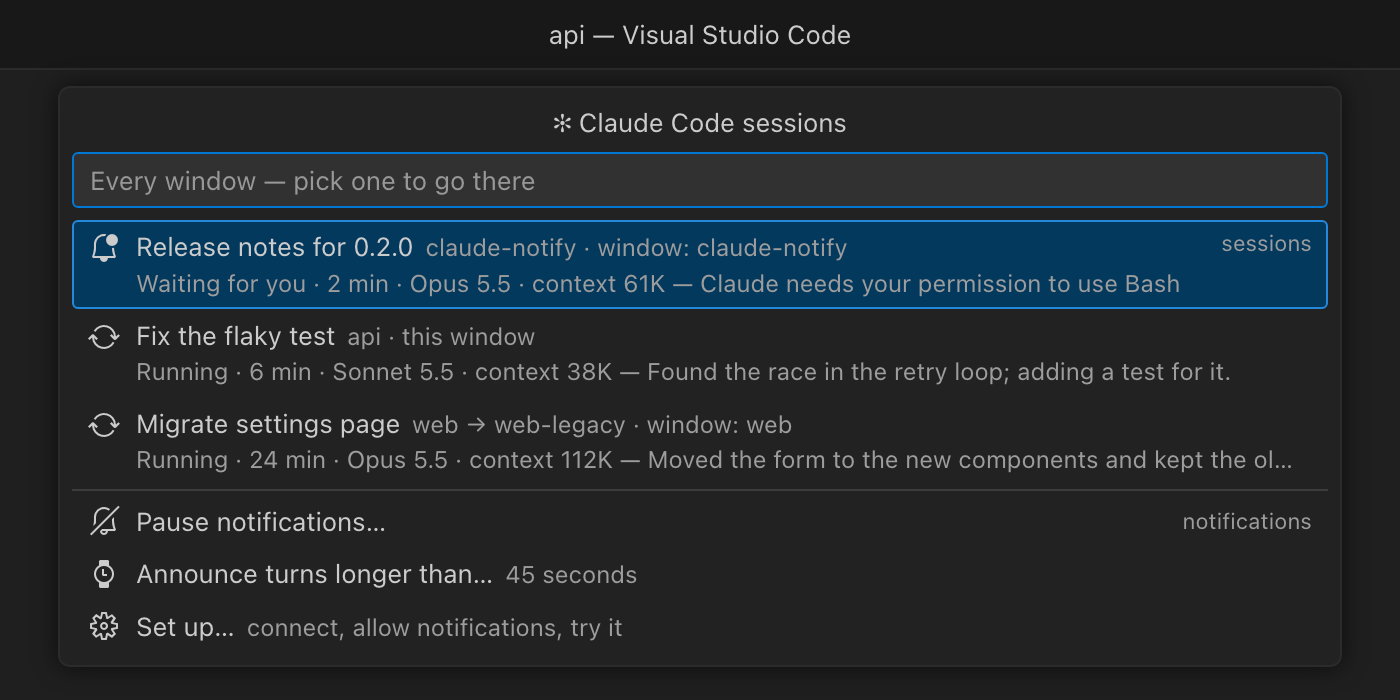
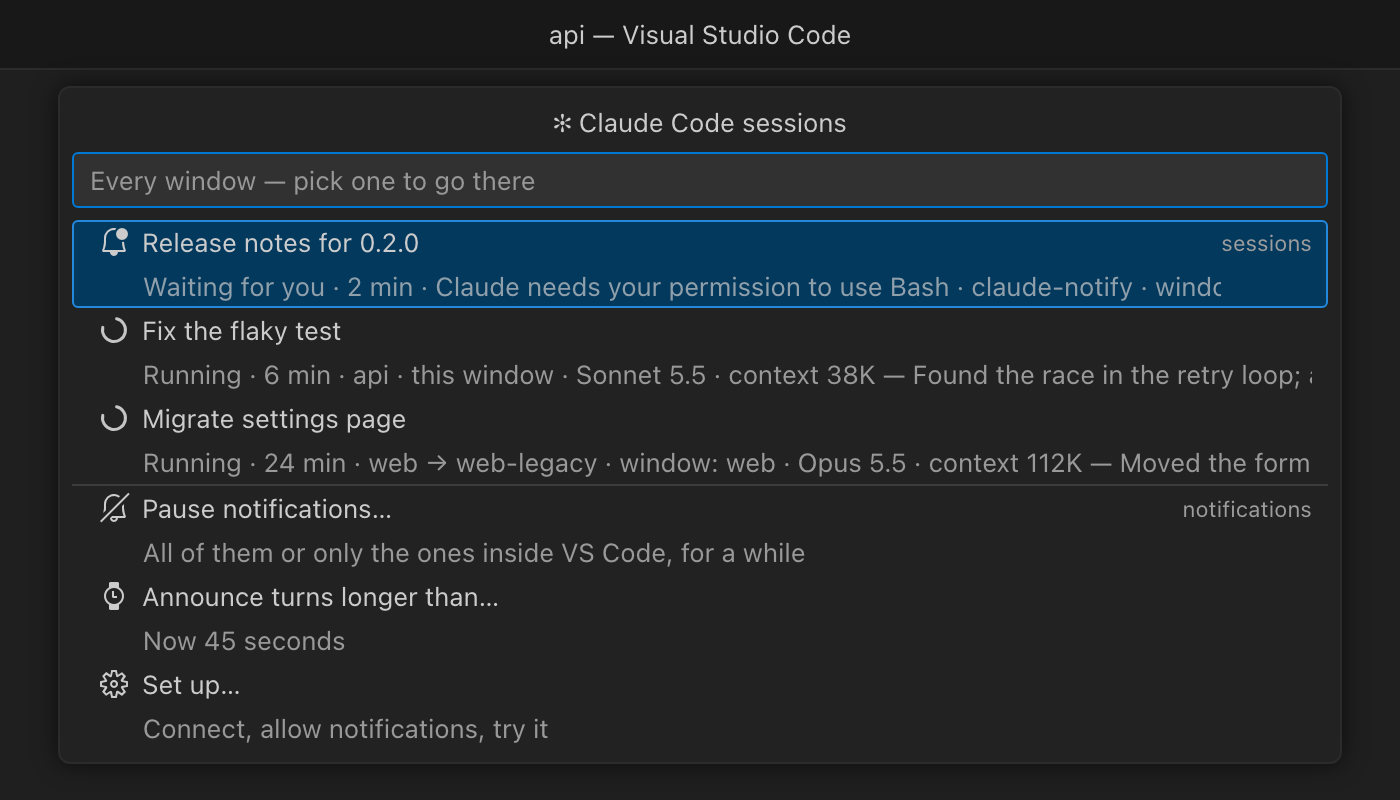
0.2.6: a spinner that turns about its centre; two even lines per row (#10)
- VS Code turns a spinning codicon together with the 6px after it, so the icon
  of a running session wobbled off-centre and into its name. A running session
  now gets an animated SVG (light and dark) that turns about its own centre.
- VS Code puts an item's icon in its first line only and starts the second at
  the edge. The second line now starts with a blank icon and an en space, under
  the name.
- Every row, the controls too, has two lines: the name beside its icon, then in
  muted text the state first and the rest after it. What a waiting session asks
  comes right after the state, where a long line does not cut it off.

Changed region(s): [[0.0307, 0.12, 0.9521, 0.93], [0.3686, 0.03, 0.6143, 0.06], [0.86, 0.72, 0.9214, 0.75]]

diff --git a/extension/media/readme/src/sessions.html b/extension/media/readme/src/sessions.html
@@ -5,40 +5,45 @@ body { width: 700px; padding: 0 0 18px; background: #1f1f1f; }
 .qp { width: 640px; margin: 8px auto 0; background: #222222; border: 1px solid #2b2b2b; border-radius: 6px; box-shadow: 0 0 12px rgba(0,0,0,.6); padding: 6px 0 6px; }
 .title { text-align: center; color: #cccccc; padding: 2px 0 6px; font-size: 13px; }
 .input { margin: 0 6px 6px; height: 26px; border: 1px solid #0078d4; border-radius: 3px; background: #313131; color: #989898; display: flex; align-items: center; padding: 0 8px; }
-/* an item: the icon in a column of its own, then the label row and the detail row under it */
-.item { margin: 0 6px; padding: 4px 8px; border-radius: 3px; display: grid; grid-template-columns: 16px 1fr auto; column-gap: 8px; align-items: center; }
-.item.two { align-items: start; }
-.item.two .codicon { margin-top: 2px; }
+/* VS Code's own structure: the icon sits in the first row only (16px, 6px after it); the
+   second row starts at the edge, so the extension starts it with a blank icon and an en space */
+.item { margin: 0 6px; padding: 0 8px; border-radius: 3px; height: 44px; display: flex; align-items: center; }
 .item.sel { background: #04395e; outline: 1px solid #2488db; outline-offset: -1px; }
-.item.border { border-top: 1px solid #3c3c3c; border-radius: 0; margin-top: 2px; padding-top: 6px; }
-.text { min-width: 0; }
-.l { display: flex; gap: 6px; align-items: baseline; white-space: nowrap; overflow: hidden; }
-.d { color: #9d9d9d; font-size: 12px; overflow: hidden; text-overflow: ellipsis; }
-.det { color: #9d9d9d; font-size: 12px; white-space: nowrap; overflow: hidden; text-overflow: ellipsis; margin-top: 1px; }
-.sep { color: #9d9d9d; font-size: 11px; white-space: nowrap; }
+.item.border { border-top: 1px solid #3c3c3c; border-radius: 0; }
+.rows { flex: 1; min-width: 0; margin-left: 5px; }
+.row { height: 22px; display: flex; align-items: center; white-space: pre; overflow: hidden; }
+.icon { width: 16px; height: 22px; padding-right: 6px; display: flex; align-items: center; justify-content: center; flex: none; }
+.icon .codicon { vertical-align: 0; }
+.spin { background: url(../../icons/running-dark.svg) no-repeat left center / 16px; justify-content: flex-start; }
+.meta { opacity: .7; text-overflow: ellipsis; overflow: hidden; }
+.meta .codicon { vertical-align: text-bottom; }
+.sep { color: #9d9d9d; font-size: 11px; white-space: nowrap; align-self: flex-start; margin-top: 4px; }
 </style>
 <div class="top">api — Visual Studio Code</div>
 <div class="qp"><div class="title">✻ Claude Code sessions</div>
   <div class="input">Every window — pick one to go there</div>
-  <div class="item two sel"><i class="codicon codicon-bell-dot"></i>
-    <div class="text"><div class="l"><span>Release notes for 0.2.0</span><span class="d">claude-notify · window: claude-notify</span></div>
-      <div class="det">Waiting for you · 2 min · Opus 5.5 · context 61K — Claude needs your permission to use Bash</div></div>
-    <span class="sep">sessions</span></div>
-  <div class="item two"><i class="codicon codicon-sync"></i>
-    <div class="text"><div class="l"><span>Fix the flaky test</span><span class="d">api · this window</span></div>
-      <div class="det">Running · 6 min · Sonnet 5.5 · context 38K — Found the race in the retry loop; adding a test for it.</div></div>
-    <span></span></div>
-  <div class="item two"><i class="codicon codicon-sync"></i>
-    <div class="text"><div class="l"><span>Migrate settings page</span><span class="d">web → web-legacy · window: web</span></div>
-      <div class="det">Running · 24 min · Opus 5.5 · context 112K — Moved the form to the new components and kept the old routes.</div></div>
-    <span></span></div>
-  <div class="item border"><i class="codicon codicon-bell-slash"></i>
-    <div class="text"><div class="l"><span>Pause notifications…</span></div></div>
-    <span class="sep">notifications</span></div>
-  <div class="item"><i class="codicon codicon-watch"></i>
-    <div class="text"><div class="l"><span>Announce turns longer than…</span><span class="d">45 seconds</span></div></div>
-    <span></span></div>
-  <div class="item"><i class="codicon codicon-gear"></i>
-    <div class="text"><div class="l"><span>Set up…</span><span class="d">connect, allow notifications, try it</span></div></div>
-    <span></span></div>
+  <div class="item sel"><div class="rows">
+    <div class="row"><span class="icon"><i class="codicon codicon-bell-dot"></i></span>Release notes for 0.2.0</div>
+    <div class="row meta"><i class="codicon codicon-blank"></i>&#8194;Waiting for you · 2 min · Claude needs your permission to use Bash · claude-notify · window: claude-notify · Opus 5.5 · context 61K</div>
+  </div><span class="sep">sessions</span></div>
+  <div class="item"><div class="rows">
+    <div class="row"><span class="icon spin"></span>Fix the flaky test</div>
+    <div class="row meta"><i class="codicon codicon-blank"></i>&#8194;Running · 6 min · api · this window · Sonnet 5.5 · context 38K — Found the race in the retry loop; adding a test for it.</div>
+  </div></div>
+  <div class="item"><div class="rows">
+    <div class="row"><span class="icon spin"></span>Migrate settings page</div>
+    <div class="row meta"><i class="codicon codicon-blank"></i>&#8194;Running · 24 min · web → web-legacy · window: web · Opus 5.5 · context 112K — Moved the form to the new components.</div>
+  </div></div>
+  <div class="item border"><div class="rows">
+    <div class="row"><span class="icon"><i class="codicon codicon-bell-slash"></i></span>Pause notifications…</div>
+    <div class="row meta"><i class="codicon codicon-blank"></i>&#8194;All of them or only the ones inside VS Code, for a while</div>
+  </div><span class="sep">notifications</span></div>
+  <div class="item"><div class="rows">
+    <div class="row"><span class="icon"><i class="codicon codicon-watch"></i></span>Announce turns longer than…</div>
+    <div class="row meta"><i class="codicon codicon-blank"></i>&#8194;Now 45 seconds</div>
+  </div></div>
+  <div class="item"><div class="rows">
+    <div class="row"><span class="icon"><i class="codicon codicon-gear"></i></span>Set up…</div>
+    <div class="row meta"><i class="codicon codicon-blank"></i>&#8194;Connect, allow notifications, try it</div>
+  </div></div>
 </div>

diff --git a/extension/src/extension.ts b/extension/src/extension.ts
@@ -220,24 +220,38 @@ type ControlPick = vscode.QuickPickItem & { action?: 'pause' | 'resume' | 'quiet
 const section = (label: string): vscode.QuickPickItem => ({ label, kind: vscode.QuickPickItemKind.Separator })
 
 /**
- * Every active session: who, where, in what state, how full its context is. Each row has
- * the same shape — its icon in the icon column, the name with where it lives beside it,
- * then a second line that starts with the state — so the eye can run down the list.
+ * VS Code puts an item's icon in its first line only — 16px and 6px after it — and starts
+ * the second line at the edge. A blank icon and an en space start it under the name instead.
+ */
+const UNDER_NAME = '$(blank)\u2002'
+
+/**
+ * Every active session: who, where, in what state, how full its context is. Every row,
+ * the controls below too, has the same two lines — the name beside its icon, then in muted
+ * text under the name the state first and the rest after it — so the eye can run down the
+ * list. A spinning codicon would turn together with the space after it, off its centre, so
+ * a running session gets a spinner of its own.
  */
 async function showSessions(context: vscode.ExtensionContext): Promise<void> {
   const all = activeSessions()
+  const icon = (name: string) => ({
+    light: vscode.Uri.joinPath(context.extensionUri, 'media', 'icons', `${name}-light.svg`),
+    dark: vscode.Uri.joinPath(context.extensionUri, 'media', 'icons', `${name}-dark.svg`),
+  })
   const sessions: SessionPick[] = all.map((s) => {
     const d = readDetails(s.transcript)
     const waiting = s.state === 'waiting'
-    const facts = [stateLabel(s), d.model && modelName(d.model), d.contextTokens ? `context ${tokens(d.contextTokens)}` : '']
-      .filter(Boolean).join(' · ')
-    // What it is asking, or else how its last answer began — enough to recognise it.
-    const said = waiting && s.message ? s.message : d.reply
+    // What it is asking comes right after the state: a long line loses its end.
+    const facts = [
+      stateLabel(s), waiting && s.message, placeLabel(s), whereLabel(s),
+      d.model && modelName(d.model), d.contextTokens ? `context ${tokens(d.contextTokens)}` : '',
+    ].filter(Boolean).join(' · ')
+    // How its last answer began — enough to recognise it, where there is room.
+    const said = waiting && s.message ? '' : d.reply
     return {
       label: d.title || s.project,
-      iconPath: new vscode.ThemeIcon(waiting ? 'bell-dot' : 'sync~spin'),
-      description: `${placeLabel(s)} · ${whereLabel(s)}`,
-      detail: said ? `${facts} — ${said}` : facts,
+      iconPath: waiting ? new vscode.ThemeIcon('bell-dot') : icon('running'),
+      detail: UNDER_NAME + (said ? `${facts} — ${said}` : facts),
       id: s.session,
       root: s.root || s.cwd,
       title: d.title || s.project,
@@ -246,10 +260,10 @@ async function showSessions(context: vscode.ExtensionContext): Promise<void> {
   // Last, not first: the first item is what Enter picks.
   const paused = pauseNote()
   const control: ControlPick = paused
-    ? { label: 'Resume notifications', iconPath: new vscode.ThemeIcon('bell'), description: paused, action: 'resume' }
-    : { label: 'Pause notifications…', iconPath: new vscode.ThemeIcon('bell-slash'), action: 'pause' }
-  const quiet: ControlPick = { label: 'Announce turns longer than…', iconPath: new vscode.ThemeIcon('watch'), description: quietLabel(quietSeconds()), action: 'quiet' }
-  const setup: ControlPick = { label: 'Set up…', iconPath: new vscode.ThemeIcon('gear'), description: 'connect, allow notifications, try it', action: 'setup' }
+    ? { label: 'Resume notifications', iconPath: new vscode.ThemeIcon('bell'), detail: UNDER_NAME + paused, action: 'resume' }
+    : { label: 'Pause notifications…', iconPath: new vscode.ThemeIcon('bell-slash'), detail: `${UNDER_NAME}All of them or only the ones inside VS Code, for a while`, action: 'pause' }
+  const quiet: ControlPick = { label: 'Announce turns longer than…', iconPath: new vscode.ThemeIcon('watch'), detail: `${UNDER_NAME}Now ${quietLabel(quietSeconds())}`, action: 'quiet' }
+  const setup: ControlPick = { label: 'Set up…', iconPath: new vscode.ThemeIcon('gear'), detail: `${UNDER_NAME}Connect, allow notifications, try it`, action: 'setup' }
   const items: (SessionPick | ControlPick)[] = [
     ...(sessions.length ? [section('sessions'), ...sessions] : []),
     section('notifications'), control, quiet, setup,

diff --git a/extension/CHANGELOG.md b/extension/CHANGELOG.md
@@ -1,5 +1,13 @@
 # Changelog
 
+## 0.2.6
+
+- The spinner of a running session turns about its own centre. A spinning codicon in the
+  session list turned together with the space after it, off-centre and into the name.
+- Every row of the session list, the controls below too, has two lines: the name beside
+  its icon, and under the name, in muted text, the state first and the rest after it. What
+  a waiting session asks comes right after the state, where a long line does not cut it off.
+
 ## 0.2.5
 
 - A session whose turn has ended but whose background agents or workflow are still at work
